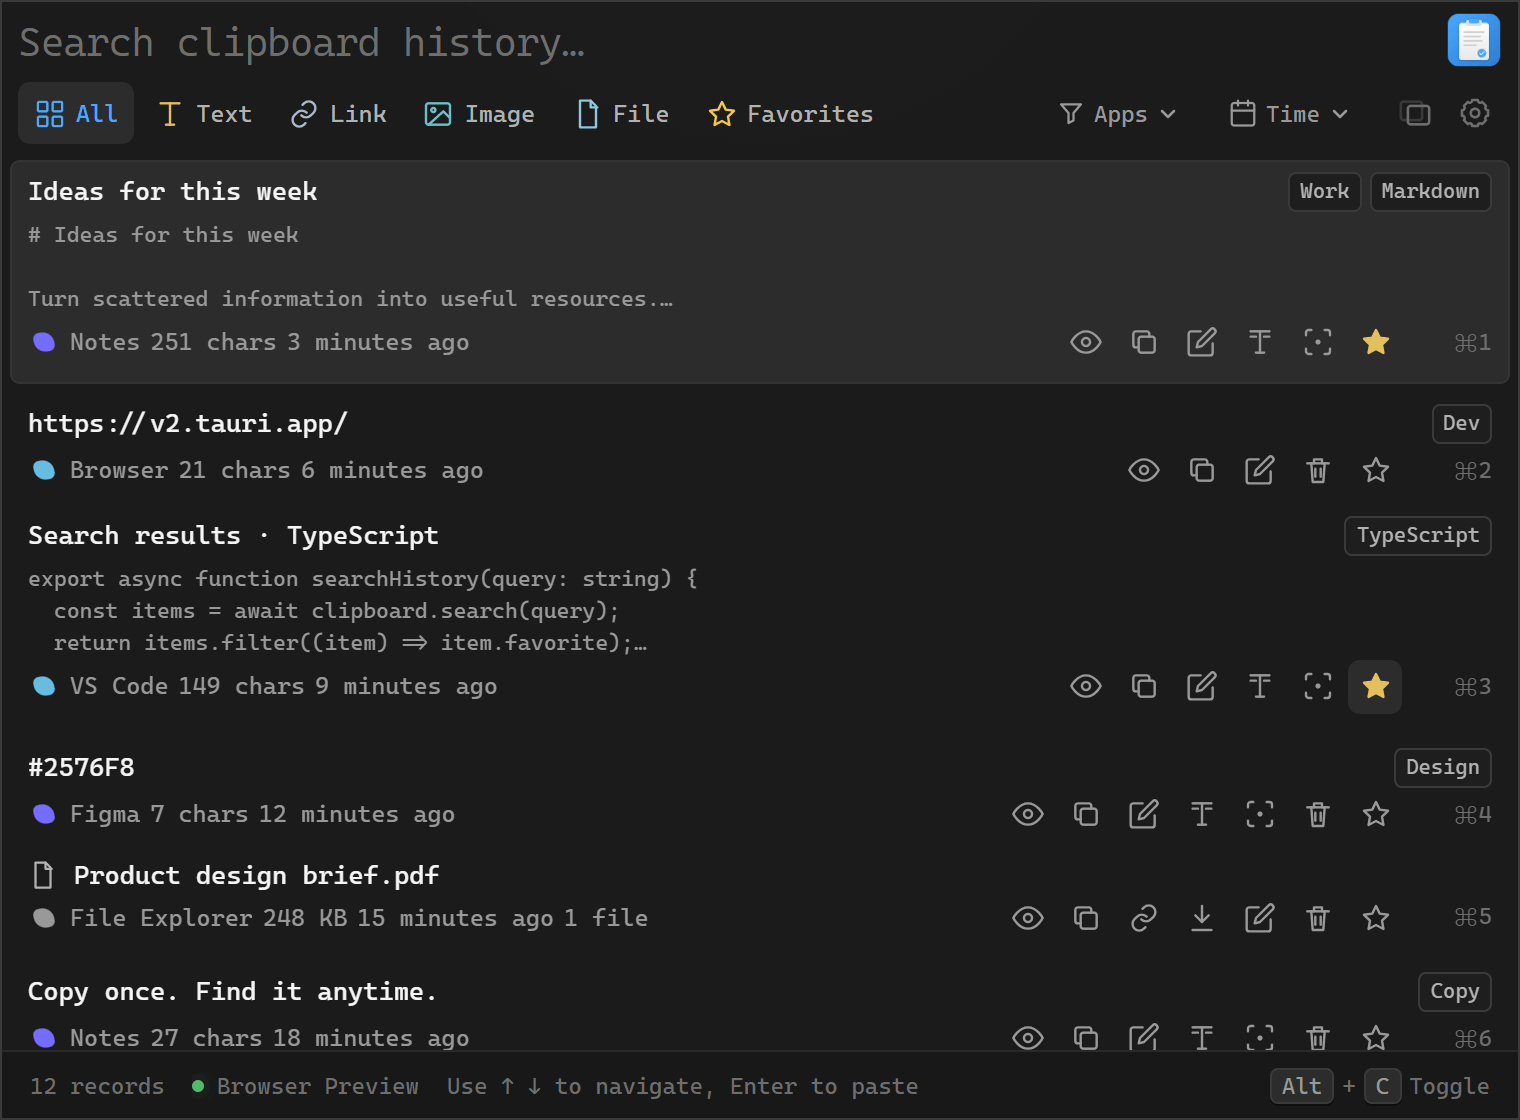
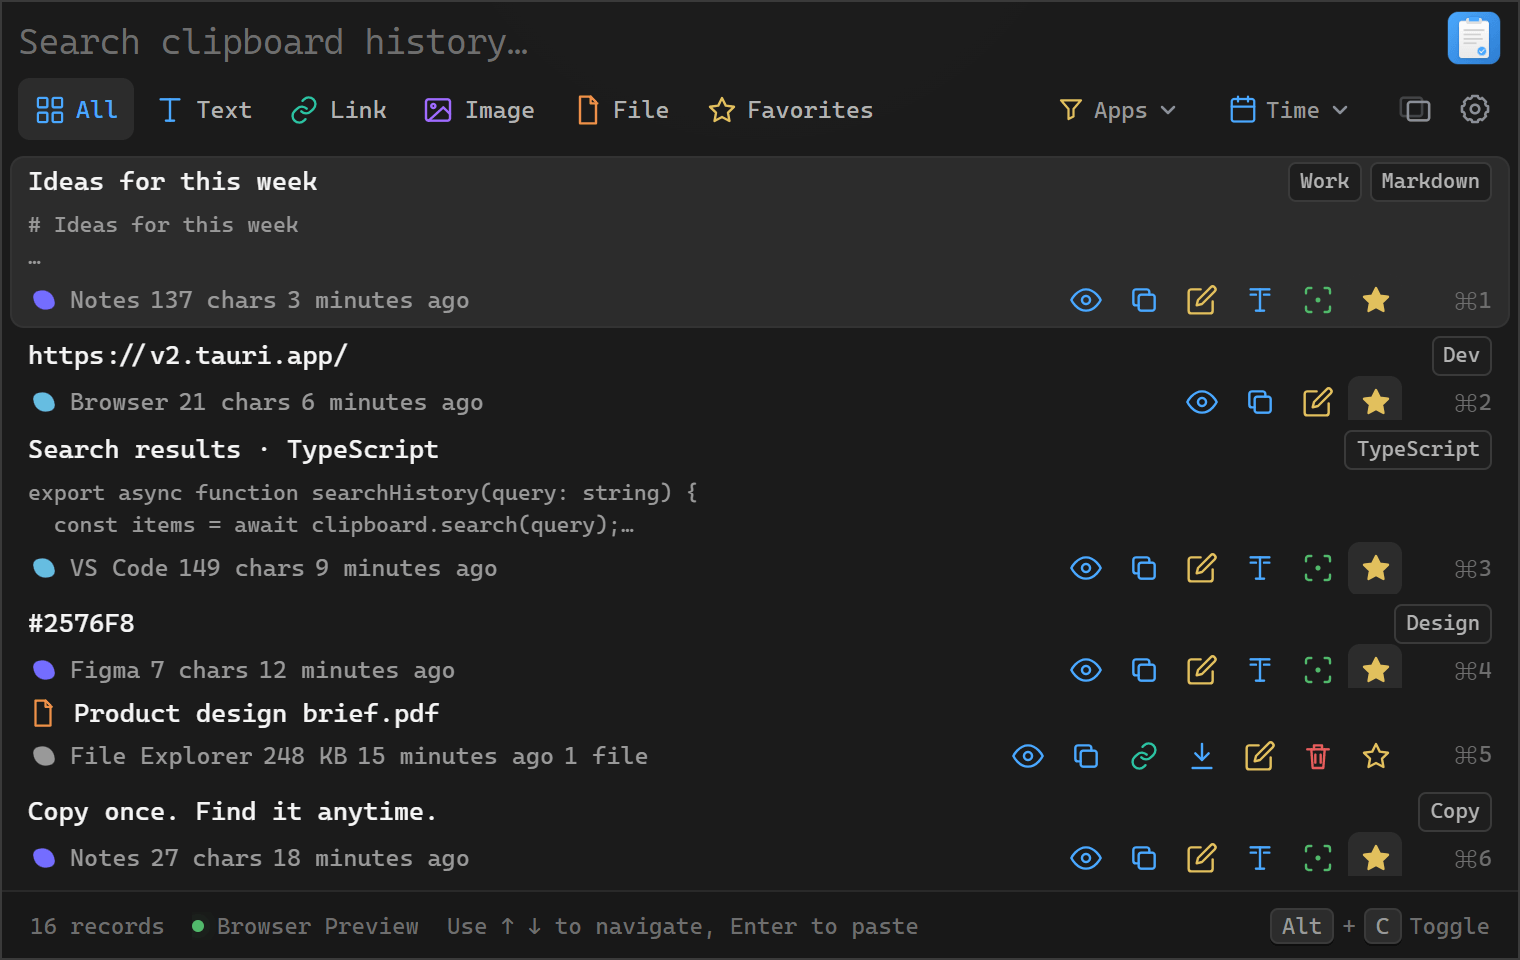
📝 docs[readme]: expand colorful compact bilingual UI galleries

diff --git a/README_EN.md b/README_EN.md
@@ -40,32 +40,17 @@ Alt+C to open → type keywords to search → ↑↓ to navigate → Enter to pa
 
 ## Screenshots
 
-The current interface in English, populated with fictional sample data. Click any image for the full-size view.
+Two English UI galleries with colorful icons and compact spacing, rendered in browser preview with fictional sample data. Click a gallery or the links below for full-size images.
 
-<table width="100%">
-  <tr>
-    <td width="50%" align="center" valign="top">
-      <a href="static/screenshots/en/main.png"><img src="static/screenshots/en/main.png" width="100%" alt="English main window: clipboard history, type filters, tags, favorites and quick actions"></a><br>
-      <sub><b>Clipboard history</b> · Search, filters and quick actions</sub>
-    </td>
-    <td width="50%" align="center" valign="top">
-      <a href="static/screenshots/en/settings.png"><img src="static/screenshots/en/settings.png" width="100%" alt="English settings window: category navigation, settings search and theme colors"></a><br>
-      <sub><b>Appearance settings</b> · Themes, fonts and layout</sub>
-    </td>
-  </tr>
-</table>
-<table width="100%">
-  <tr>
-    <td width="62%" align="center" valign="top">
-      <a href="static/screenshots/en/detail.png"><img src="static/screenshots/en/detail.png" width="100%" alt="English detail panel in light mode: Markdown preview, tags, copy, edit and paste actions"></a><br>
-      <sub><b>Content details</b> · Markdown preview and editing</sub>
-    </td>
-    <td width="38%" align="center" valign="top">
-      <a href="static/screenshots/en/float.png"><img src="static/screenshots/en/float.png" width="100%" alt="English floating clipboard: compact history list with All and Favorites tabs"></a><br>
-      <sub><b>Floating clipboard</b> · Quick access to saved items</sub>
-    </td>
-  </tr>
-</table>
+<p align="center">
+  <a href="static/screenshots/en/overview.png"><img src="static/screenshots/en/overview.png" width="100%" alt="English interface overview: colorful icons, compact clipboard history, icon colors, Markdown details and floating panel"></a><br>
+  <sub><a href="static/screenshots/en/main.png">Main window</a> · <a href="static/screenshots/en/settings.png">Icon colors</a> · <a href="static/screenshots/en/detail.png">Content details</a> · <a href="static/screenshots/en/float.png">Floating panel</a></sub>
+</p>
+
+<p align="center">
+  <a href="static/screenshots/en/workflow.png"><img src="static/screenshots/en/workflow.png" width="100%" alt="English workflow gallery: keyword search results, card spacing settings, syntax-highlighted code and floating favorites"></a><br>
+  <sub><a href="static/screenshots/en/search.png">Search results</a> · <a href="static/screenshots/en/layout.png">Layout settings</a> · <a href="static/screenshots/en/code.png">Code preview</a> · <a href="static/screenshots/en/favorites.png">Favorites</a></sub>
+</p>
 
 ## Features
 

diff --git a/README.md b/README.md
@@ -43,32 +43,17 @@ Alt+C 唤起 → 键入关键词搜索 → ↑↓ 导航 → Enter 粘贴
 
 ## 界面预览
 
-当前界面的中文演示，使用虚构示例数据；点击图片查看原图。
+两组中文界面展示，使用彩色图标与紧凑布局；通过浏览器预览生成，内容为虚构示例数据。点击拼图或下方链接查看原图。
 
-<table width="100%">
-  <tr>
-    <td width="50%" align="center" valign="top">
-      <a href="static/screenshots/zh-CN/main.png"><img src="static/screenshots/zh-CN/main.png" width="100%" alt="中文主界面：剪贴板历史、类型筛选、标签、收藏与快捷操作"></a><br>
-      <sub><b>剪贴板历史</b> · 搜索、筛选与快捷操作</sub>
-    </td>
-    <td width="50%" align="center" valign="top">
-      <a href="static/screenshots/zh-CN/settings.png"><img src="static/screenshots/zh-CN/settings.png" width="100%" alt="中文设置界面：分类导航、设置搜索与主题配色"></a><br>
-      <sub><b>外观设置</b> · 主题、字体与布局</sub>
-    </td>
-  </tr>
-</table>
-<table width="100%">
-  <tr>
-    <td width="62%" align="center" valign="top">
-      <a href="static/screenshots/zh-CN/detail.png"><img src="static/screenshots/zh-CN/detail.png" width="100%" alt="浅色中文详情面板：Markdown 预览、标签、复制、编辑与粘贴操作"></a><br>
-      <sub><b>内容详情</b> · Markdown 预览与编辑</sub>
-    </td>
-    <td width="38%" align="center" valign="top">
-      <a href="static/screenshots/zh-CN/float.png"><img src="static/screenshots/zh-CN/float.png" width="100%" alt="中文悬浮剪贴板：紧凑列表、全部与收藏分组"></a><br>
-      <sub><b>悬浮剪贴板</b> · 常用内容随手取用</sub>
-    </td>
-  </tr>
-</table>
+<p align="center">
+  <a href="static/screenshots/zh-CN/overview.png"><img src="static/screenshots/zh-CN/overview.png" width="100%" alt="中文界面总览：彩色图标、紧凑剪贴板历史、图标配色、Markdown 详情与悬浮窗"></a><br>
+  <sub><a href="static/screenshots/zh-CN/main.png">主界面</a> · <a href="static/screenshots/zh-CN/settings.png">图标配色</a> · <a href="static/screenshots/zh-CN/detail.png">内容详情</a> · <a href="static/screenshots/zh-CN/float.png">悬浮窗</a></sub>
+</p>
+
+<p align="center">
+  <a href="static/screenshots/zh-CN/workflow.png"><img src="static/screenshots/zh-CN/workflow.png" width="100%" alt="中文工作流展示：关键词搜索结果、卡片间距设置、代码语法高亮与收藏悬浮窗"></a><br>
+  <sub><a href="static/screenshots/zh-CN/search.png">搜索结果</a> · <a href="static/screenshots/zh-CN/layout.png">布局设置</a> · <a href="static/screenshots/zh-CN/code.png">代码预览</a> · <a href="static/screenshots/zh-CN/favorites.png">收藏分组</a></sub>
+</p>
 
 ## 核心特性
 
